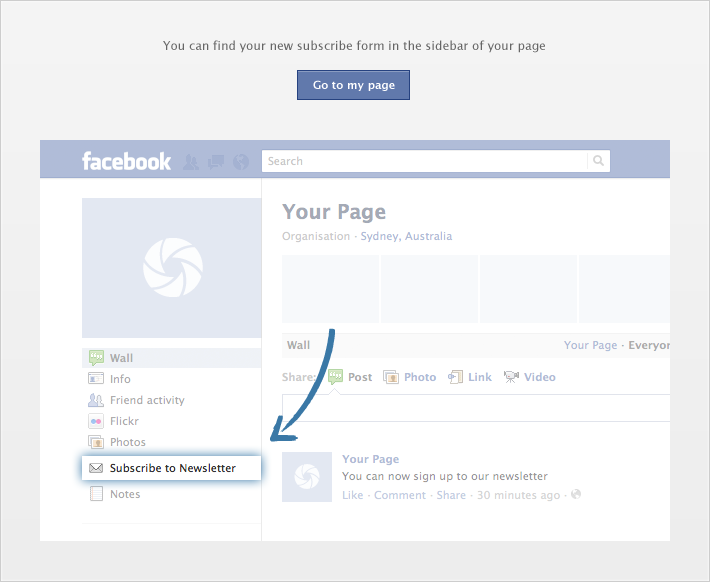
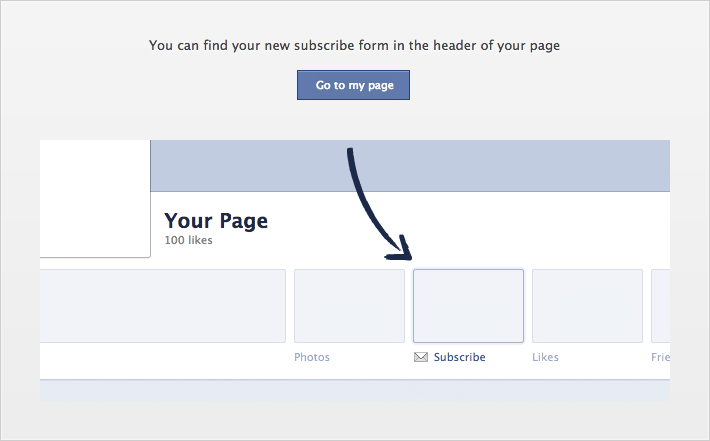
Updated image indicating Subscribe Form launch position in header of Facebook page. Fixes #20.

diff --git a/public/scss/cm.scss b/public/scss/cm.scss
@@ -578,4 +578,4 @@ a#settings-saved {
   margin: 25px 0;
   display: block;
   height: 582px;
-  background: url('/img/settings_saved.png') no-repeat center 0; }
+  background: url('/img/settings_saved.png?v=20121115') no-repeat center 0; }
